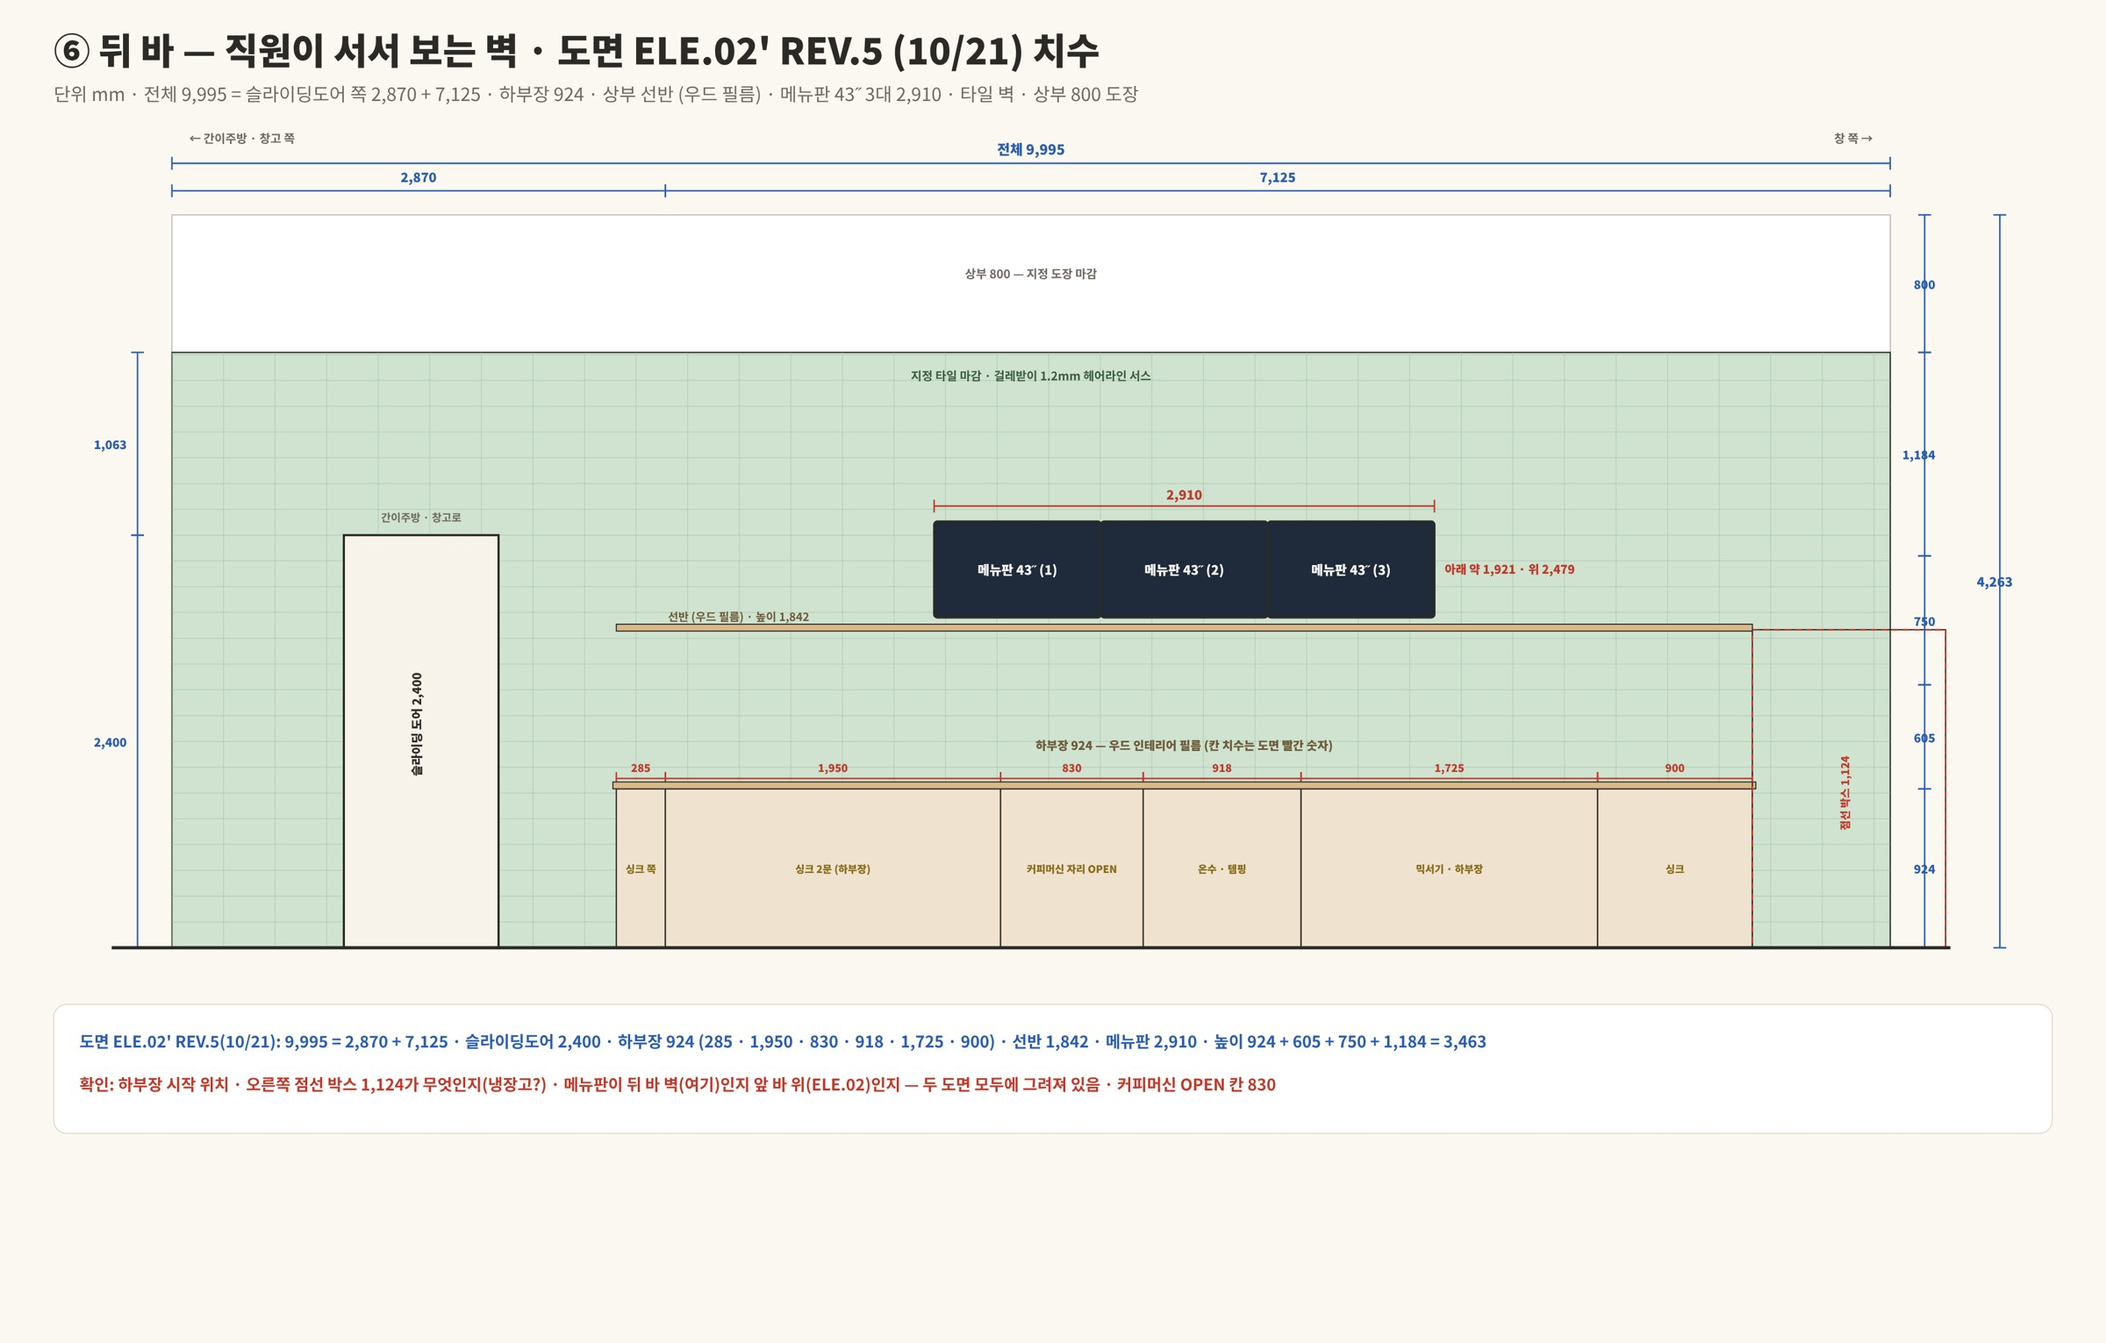
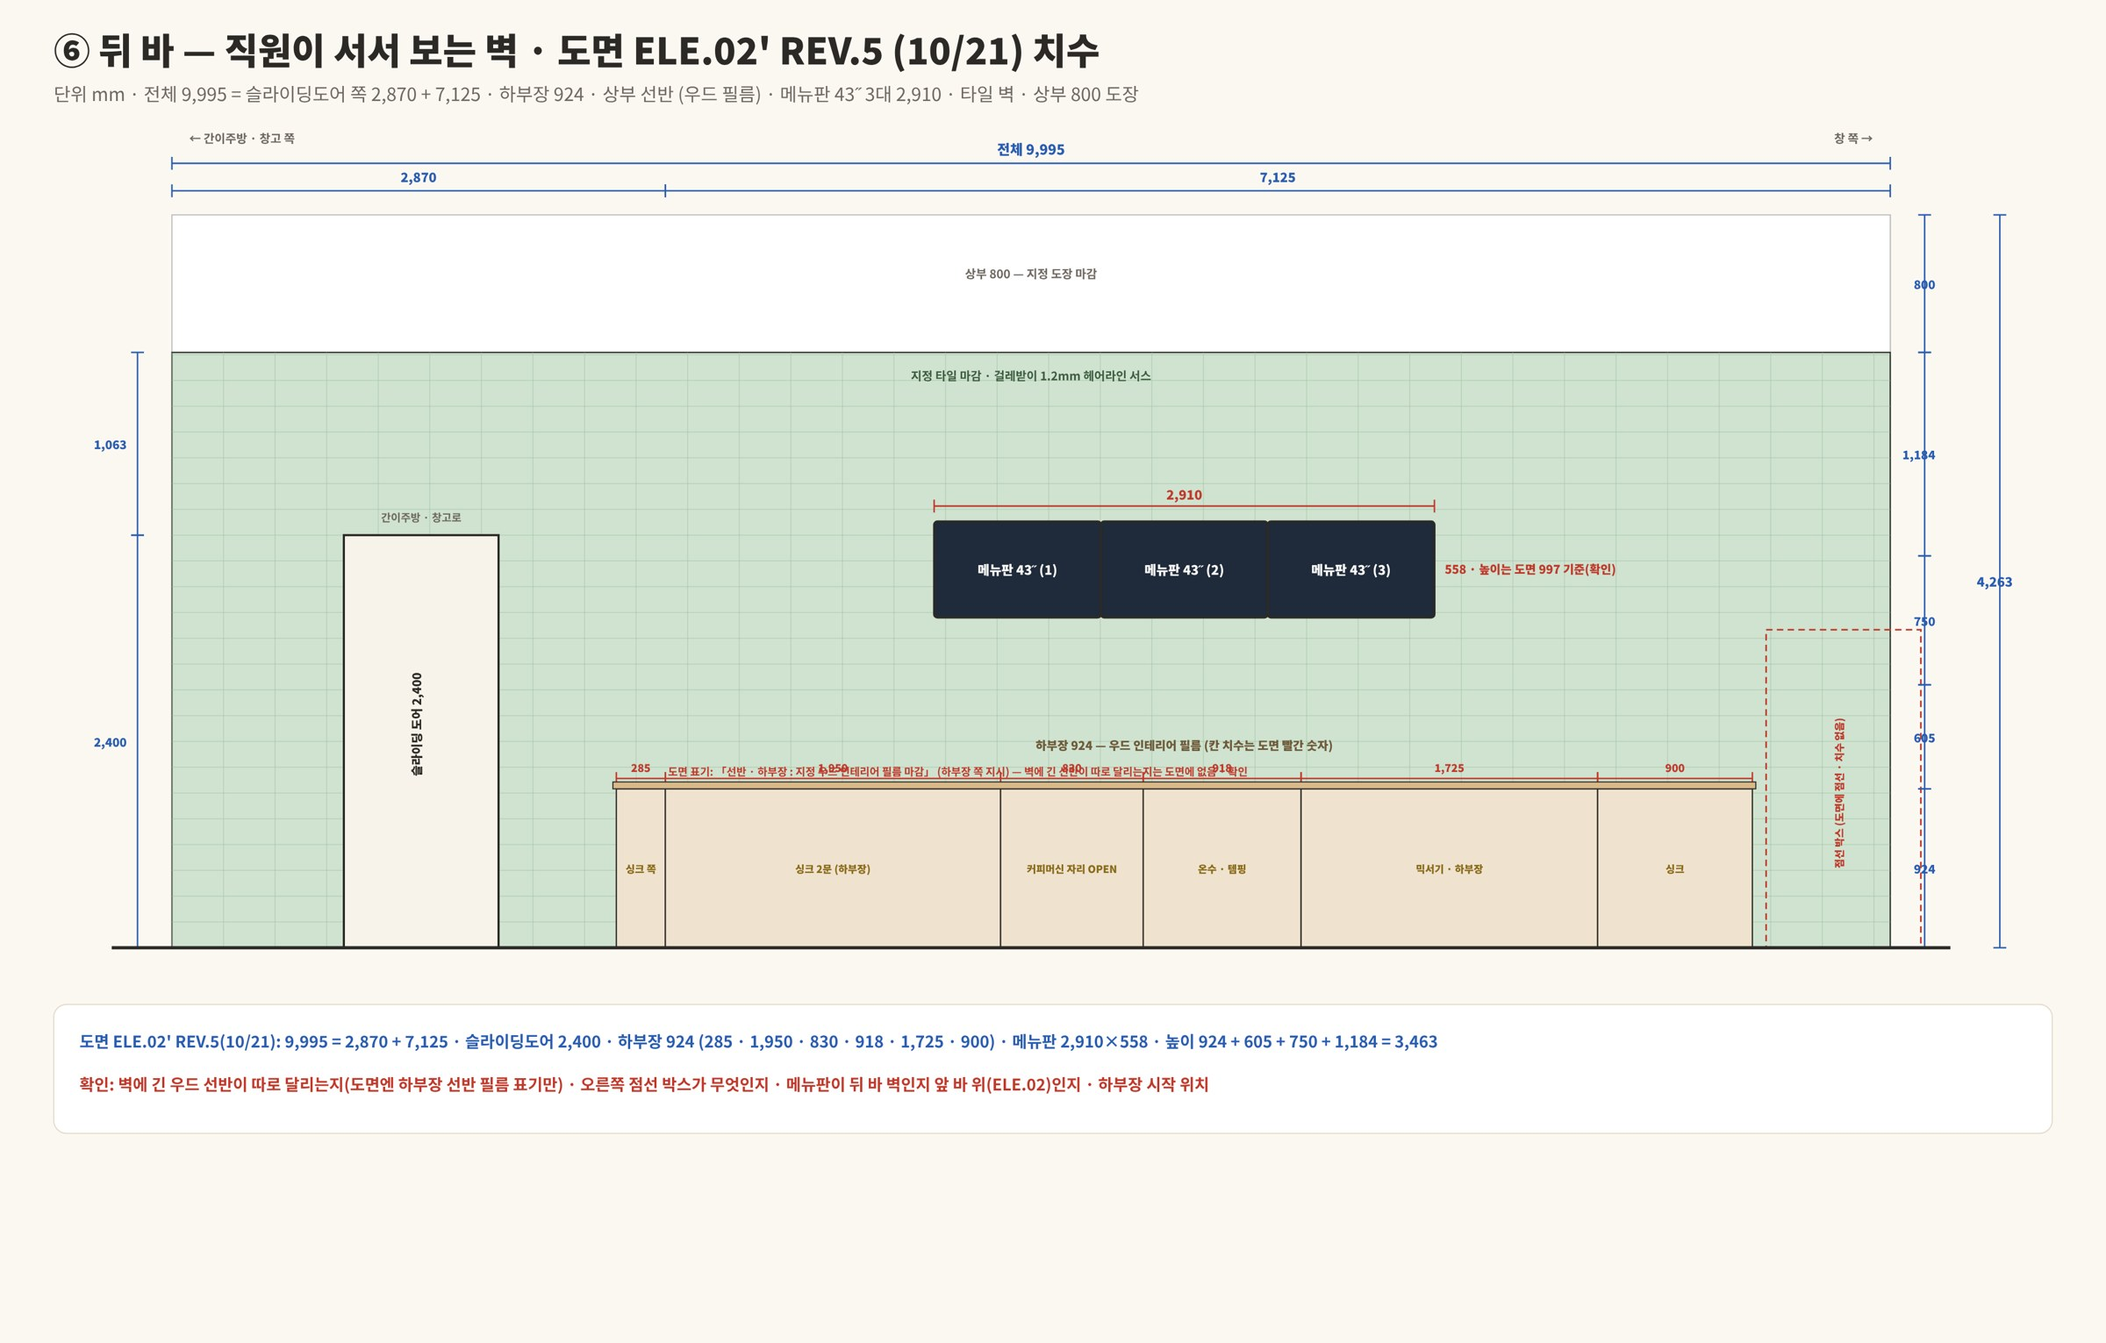
뒤 바 그림 — 도면에 없는 긴 선반 제거, 확인 항목으로
Claude-Session: https://claude.ai/code/session_01KGSeNsWMpvg4KUGj47PaMD

diff --git a/gsmch-1f-cafe-bars.html b/gsmch-1f-cafe-bars.html
@@ -21,6 +21,6 @@ h1{font-family:'Gowun Batang',serif;font-size:28px;margin:18px 0 4px}.lead{color
 <h1>로뎀카페 공간 그림 (안) — 9장</h1>
 <p class="lead">11/3 최종 도면 치수와 11/2 현장 미팅 내용으로 그렸습니다. 파란 글씨는 도면에 적힌 값, 빨간 글씨는 확인할 것입니다. 건축위 · 인테리어 업체와 맞춰 본 뒤 확정합니다.</p>
 <nav class="nav"><a href="#v1">1. 홀 전체</a><a href="#v2">2. 앞 바 — 손님이 보는 모습 (도면 ELE.02)</a><a href="#v3">3. 카페 안에서 본 정면 · 주문현황판 (도면 ELE.01)</a><a href="#v4">4. 서비스바</a><a href="#v5">5. 앞 바 · 뒤 바 · 서비스바 평면 (11/3 실시설계)</a><a href="#v6">6. 뒤 바 — 직원이 보는 벽 (도면 ELE.02')</a><a href="#v7">7. 앞 바 반대편 끝 벽 (도면 ELE.04)</a><a href="#v8">8. 간이주방</a><a href="#v9">9. 창고</a><a href="#v10">10. 창 쪽 벽 (도면 ELE.03)</a></nav>
-<section class="page" id="v1"><div class="bar"><b>1. 홀 전체</b><span>위에서 본 모습 · 뒤 바 775 · 통로 1,150 · 앞 바 875 · 서비스바 4,200×700 (앞 바에서 1,600) · 간이주방 · 창고</span><a class="tbtn" href="img/gsmch-1f-cafe-view-1.jpg" download="gsmch_카페_1_홀 전체_1104.jpg">JPG</a></div><img src="img/gsmch-1f-cafe-view-1.jpg" alt="홀 전체" loading="lazy"><div class="cap"><b>확인할 것</b> 메뉴판 3대는 뒤 바 위, 현황판은 정면 가운데 위 · 반납함 · 키오스크 자리 확인</div></section><section class="page" id="v2"><div class="bar"><b>2. 앞 바 — 손님이 보는 모습 (도면 ELE.02)</b><span>9,645 = 루버 벽 2,450 + 7,195 · 앞 바 높이 1,050 · 사인 띠 450 · 메뉴판 43˝ 3대 970×558 (1,842~2,400) · 키오스크 매립 450</span><a class="tbtn" href="img/gsmch-1f-cafe-view-2.jpg" download="gsmch_카페_2_앞 바_1104.jpg">JPG</a></div><img src="img/gsmch-1f-cafe-view-2.jpg" alt="앞 바 — 손님이 보는 모습 (도면 ELE.02)" loading="lazy"><div class="cap"><b>확인할 것</b> 앞 바 시작 위치 · 메뉴판이 앞 바 위인지 뒤 바 위인지(두 도면 모두 표기) · 사인 글자 · 상판 우드톤</div></section><section class="page" id="v3"><div class="bar"><b>3. 카페 안에서 본 정면 · 주문현황판 (도면 ELE.01)</b><span>13,616 × 4,263 · 유리 2,249 + 200 + 루버 1,014 + 상부 800 · 자동문 3,369 · 현황판 43˝ 안쪽 가운데 위</span><a class="tbtn" href="img/gsmch-1f-cafe-view-3.jpg" download="gsmch_카페_3_카페 안에서 본 정면 · 주문현황판_1104.jpg">JPG</a></div><img src="img/gsmch-1f-cafe-view-3.jpg" alt="카페 안에서 본 정면 · 주문현황판 (도면 ELE.01)" loading="lazy"><div class="cap"><b>확인할 것</b> "가운데"가 유리 7,429 가운데인지 자동문 가운데인지 정면 전체 가운데인지 · 높이 · 콘센트 · 루버 보강</div></section><section class="page" id="v4"><div class="bar"><b>4. 서비스바</b><span>4,200 × 700 · 세척 2구 → 음료 버림 → 투입구 4개 → 아이스크림 · 앞 바에서 1,600 떨어진 섬</span><a class="tbtn" href="img/gsmch-1f-cafe-view-4.jpg" download="gsmch_카페_4_서비스바_1104.jpg">JPG</a></div><img src="img/gsmch-1f-cafe-view-4.jpg" alt="서비스바" loading="lazy"><div class="cap"><b>확인할 것</b> 폭 700/600 · 높이 · 다회용컵 투입구 / 반납함 따로 · 선반 깊이</div></section><section class="page" id="v5"><div class="bar"><b>5. 앞 바 · 뒤 바 · 서비스바 평면 (11/3 실시설계)</b><span>뒤 바 775 (싱크 ↔ 싱크 4,638) · 통로 1,150 · 앞 바 875 × 6,295 · 서비스바 700 (1,600 떨어짐) · 급배수 3곳</span><a class="tbtn" href="img/gsmch-1f-cafe-view-5.jpg" download="gsmch_카페_5_앞 바 · 뒤 바 · 서비스바 평면_1104.jpg">JPG</a></div><img src="img/gsmch-1f-cafe-view-5.jpg" alt="앞 바 · 뒤 바 · 서비스바 평면 (11/3 실시설계)" loading="lazy"><div class="cap"><b>확인할 것</b> 커피머신 · 온수기 어느 바인지(앞 바 점선) · 서비스바 폭 · 반납함 매립 여부</div></section><section class="page" id="v6"><div class="bar"><b>6. 뒤 바 — 직원이 보는 벽 (도면 ELE.02')</b><span>9,995 = 2,870 + 7,125 · 하부장 924 (285 · 1,950 · 830 · 918 · 1,725 · 900) · 선반 1,842 · 메뉴판 2,910 · 슬라이딩도어 2,400</span><a class="tbtn" href="img/gsmch-1f-cafe-view-6.jpg" download="gsmch_카페_6_뒤 바_1104.jpg">JPG</a></div><img src="img/gsmch-1f-cafe-view-6.jpg" alt="뒤 바 — 직원이 보는 벽 (도면 ELE.02')" loading="lazy"><div class="cap"><b>확인할 것</b> 오른쪽 점선 박스 1,124가 무엇인지 · 커피머신 OPEN 칸 830 · 메뉴판 위치</div></section><section class="page" id="v7"><div class="bar"><b>7. 앞 바 반대편 끝 벽 (도면 ELE.04)</b><span>9,313 · 붙박이 쇼파 450 + 등받이 700 · 루버 띠 600 · 갤러리 도어 805 · 1,287 (스탠딩 냉난방)</span><a class="tbtn" href="img/gsmch-1f-cafe-view-7.jpg" download="gsmch_카페_7_앞 바 반대편 끝 벽_1104.jpg">JPG</a></div><img src="img/gsmch-1f-cafe-view-7.jpg" alt="앞 바 반대편 끝 벽 (도면 ELE.04)" loading="lazy"><div class="cap"><b>확인할 것</b> 쇼파 길이(도어 자리 제외) · 스탠딩 냉난방 자리</div></section><section class="page" id="v8"><div class="bar"><b>8. 간이주방</b><span>2,870 × 2,300 · 4도어 냉동(장)고 1,260×800×1,900 (세로로) · 빈 공간 1,120 · 분전함 · 창고와 문 없이 뚫림</span><a class="tbtn" href="img/gsmch-1f-cafe-view-8.jpg" download="gsmch_카페_8_간이주방_1104.jpg">JPG</a></div><img src="img/gsmch-1f-cafe-view-8.jpg" alt="간이주방" loading="lazy"><div class="cap"><b>확인할 것</b> 빈 공간 쓰임(선반?) · 바 쪽 문 자물쇠</div></section><section class="page" id="v9"><div class="bar"><b>9. 창고</b><span>약 1,670 × 1,650 (추정) · 앵글장 확정 · 바깥 문 875 밖으로 열림 · 오른쪽은 간이주방으로 뚫림 (아무것도 안 둠)</span><a class="tbtn" href="img/gsmch-1f-cafe-view-9.jpg" download="gsmch_카페_9_창고_1104.jpg">JPG</a></div><img src="img/gsmch-1f-cafe-view-9.jpg" alt="창고" loading="lazy"><div class="cap"><b>확인할 것</b> 창고 치수(추정) · 선반 제작은 어디에 · 바깥 문 자물쇠</div></section><section class="page" id="v10"><div class="bar"><b>10. 창 쪽 벽 (도면 ELE.03)</b><span>16,416 · 신규 창호 1,670 · 6,088 (십자 프레임) · 1,695 · 창 높이 450 + 2,400 + 80 + 963 · 블라인드 없음</span><a class="tbtn" href="img/gsmch-1f-cafe-view-10.jpg" download="gsmch_카페_10_창 쪽 벽_1104.jpg">JPG</a></div><img src="img/gsmch-1f-cafe-view-10.jpg" alt="창 쪽 벽 (도면 ELE.03)" loading="lazy"><div class="cap"><b>확인할 것</b> 창 쪽 테이블 배치</div></section>
+<section class="page" id="v1"><div class="bar"><b>1. 홀 전체</b><span>위에서 본 모습 · 뒤 바 775 · 통로 1,150 · 앞 바 875 · 서비스바 4,200×700 (앞 바에서 1,600) · 간이주방 · 창고</span><a class="tbtn" href="img/gsmch-1f-cafe-view-1.jpg" download="gsmch_카페_1_홀 전체_1104.jpg">JPG</a></div><img src="img/gsmch-1f-cafe-view-1.jpg" alt="홀 전체" loading="lazy"><div class="cap"><b>확인할 것</b> 메뉴판 3대는 뒤 바 위, 현황판은 정면 가운데 위 · 반납함 · 키오스크 자리 확인</div></section><section class="page" id="v2"><div class="bar"><b>2. 앞 바 — 손님이 보는 모습 (도면 ELE.02)</b><span>9,645 = 루버 벽 2,450 + 7,195 · 앞 바 높이 1,050 · 사인 띠 450 · 메뉴판 43˝ 3대 970×558 (1,842~2,400) · 키오스크 매립 450</span><a class="tbtn" href="img/gsmch-1f-cafe-view-2.jpg" download="gsmch_카페_2_앞 바_1104.jpg">JPG</a></div><img src="img/gsmch-1f-cafe-view-2.jpg" alt="앞 바 — 손님이 보는 모습 (도면 ELE.02)" loading="lazy"><div class="cap"><b>확인할 것</b> 앞 바 시작 위치 · 메뉴판이 앞 바 위인지 뒤 바 위인지(두 도면 모두 표기) · 사인 글자 · 상판 우드톤</div></section><section class="page" id="v3"><div class="bar"><b>3. 카페 안에서 본 정면 · 주문현황판 (도면 ELE.01)</b><span>13,616 × 4,263 · 유리 2,249 + 200 + 루버 1,014 + 상부 800 · 자동문 3,369 · 현황판 43˝ 안쪽 가운데 위</span><a class="tbtn" href="img/gsmch-1f-cafe-view-3.jpg" download="gsmch_카페_3_카페 안에서 본 정면 · 주문현황판_1104.jpg">JPG</a></div><img src="img/gsmch-1f-cafe-view-3.jpg" alt="카페 안에서 본 정면 · 주문현황판 (도면 ELE.01)" loading="lazy"><div class="cap"><b>확인할 것</b> "가운데"가 유리 7,429 가운데인지 자동문 가운데인지 정면 전체 가운데인지 · 높이 · 콘센트 · 루버 보강</div></section><section class="page" id="v4"><div class="bar"><b>4. 서비스바</b><span>4,200 × 700 · 세척 2구 → 음료 버림 → 투입구 4개 → 아이스크림 · 앞 바에서 1,600 떨어진 섬</span><a class="tbtn" href="img/gsmch-1f-cafe-view-4.jpg" download="gsmch_카페_4_서비스바_1104.jpg">JPG</a></div><img src="img/gsmch-1f-cafe-view-4.jpg" alt="서비스바" loading="lazy"><div class="cap"><b>확인할 것</b> 폭 700/600 · 높이 · 다회용컵 투입구 / 반납함 따로 · 선반 깊이</div></section><section class="page" id="v5"><div class="bar"><b>5. 앞 바 · 뒤 바 · 서비스바 평면 (11/3 실시설계)</b><span>뒤 바 775 (싱크 ↔ 싱크 4,638) · 통로 1,150 · 앞 바 875 × 6,295 · 서비스바 700 (1,600 떨어짐) · 급배수 3곳</span><a class="tbtn" href="img/gsmch-1f-cafe-view-5.jpg" download="gsmch_카페_5_앞 바 · 뒤 바 · 서비스바 평면_1104.jpg">JPG</a></div><img src="img/gsmch-1f-cafe-view-5.jpg" alt="앞 바 · 뒤 바 · 서비스바 평면 (11/3 실시설계)" loading="lazy"><div class="cap"><b>확인할 것</b> 커피머신 · 온수기 어느 바인지(앞 바 점선) · 서비스바 폭 · 반납함 매립 여부</div></section><section class="page" id="v6"><div class="bar"><b>6. 뒤 바 — 직원이 보는 벽 (도면 ELE.02')</b><span>9,995 = 2,870 + 7,125 · 하부장 924 (285 · 1,950 · 830 · 918 · 1,725 · 900) · 메뉴판 2,910×558 · 슬라이딩도어 2,400</span><a class="tbtn" href="img/gsmch-1f-cafe-view-6.jpg" download="gsmch_카페_6_뒤 바_1104.jpg">JPG</a></div><img src="img/gsmch-1f-cafe-view-6.jpg" alt="뒤 바 — 직원이 보는 벽 (도면 ELE.02')" loading="lazy"><div class="cap"><b>확인할 것</b> 벽에 긴 우드 선반이 달리는지(도면엔 하부장 선반 필름 표기만) · 오른쪽 점선 박스 · 메뉴판 위치</div></section><section class="page" id="v7"><div class="bar"><b>7. 앞 바 반대편 끝 벽 (도면 ELE.04)</b><span>9,313 · 붙박이 쇼파 450 + 등받이 700 · 루버 띠 600 · 갤러리 도어 805 · 1,287 (스탠딩 냉난방)</span><a class="tbtn" href="img/gsmch-1f-cafe-view-7.jpg" download="gsmch_카페_7_앞 바 반대편 끝 벽_1104.jpg">JPG</a></div><img src="img/gsmch-1f-cafe-view-7.jpg" alt="앞 바 반대편 끝 벽 (도면 ELE.04)" loading="lazy"><div class="cap"><b>확인할 것</b> 쇼파 길이(도어 자리 제외) · 스탠딩 냉난방 자리</div></section><section class="page" id="v8"><div class="bar"><b>8. 간이주방</b><span>2,870 × 2,300 · 4도어 냉동(장)고 1,260×800×1,900 (세로로) · 빈 공간 1,120 · 분전함 · 창고와 문 없이 뚫림</span><a class="tbtn" href="img/gsmch-1f-cafe-view-8.jpg" download="gsmch_카페_8_간이주방_1104.jpg">JPG</a></div><img src="img/gsmch-1f-cafe-view-8.jpg" alt="간이주방" loading="lazy"><div class="cap"><b>확인할 것</b> 빈 공간 쓰임(선반?) · 바 쪽 문 자물쇠</div></section><section class="page" id="v9"><div class="bar"><b>9. 창고</b><span>약 1,670 × 1,650 (추정) · 앵글장 확정 · 바깥 문 875 밖으로 열림 · 오른쪽은 간이주방으로 뚫림 (아무것도 안 둠)</span><a class="tbtn" href="img/gsmch-1f-cafe-view-9.jpg" download="gsmch_카페_9_창고_1104.jpg">JPG</a></div><img src="img/gsmch-1f-cafe-view-9.jpg" alt="창고" loading="lazy"><div class="cap"><b>확인할 것</b> 창고 치수(추정) · 선반 제작은 어디에 · 바깥 문 자물쇠</div></section><section class="page" id="v10"><div class="bar"><b>10. 창 쪽 벽 (도면 ELE.03)</b><span>16,416 · 신규 창호 1,670 · 6,088 (십자 프레임) · 1,695 · 창 높이 450 + 2,400 + 80 + 963 · 블라인드 없음</span><a class="tbtn" href="img/gsmch-1f-cafe-view-10.jpg" download="gsmch_카페_10_창 쪽 벽_1104.jpg">JPG</a></div><img src="img/gsmch-1f-cafe-view-10.jpg" alt="창 쪽 벽 (도면 ELE.03)" loading="lazy"><div class="cap"><b>확인할 것</b> 창 쪽 테이블 배치</div></section>
 <p class="foot">선한목자교회 총여선교회 사업단 · 1층 성전보수</p>
 </div></body></html>

diff --git a/tools-cafe-draw/el2b.py b/tools-cafe-draw/el2b.py
@@ -21,14 +21,14 @@ for w,nm in segs:
     B(x,w,0,924,'#efe3cf',INK,1.2);T(o,X(x+w/2),Y(460)+4,nm,9.5,800,'#8a6a1a');DIM(o,X(x),Y(924+60),X(x+w),Y(924+60),f'{w:,}',RED,-6,10);x+=w
 B(x0-20,x-x0+40,924,40,WOOD,INK,1);T(o,X((x0+x)/2),Y(1150),'하부장 924 — 우드 인테리어 필름 (칸 치수는 도면 빨간 숫자)',11,800,'#6e5a3a')
 # 오른쪽 끝 점선 박스 1,124 (높이 약 1,850)
-B(x,1124,0,1850,'none',INK,1.2);o.append(f'<rect x="{X(x)}" y="{Y(1850)}" width="{1124*S}" height="{1850*S}" fill="none" stroke="{RED}" stroke-width="1.5" stroke-dasharray="6 4"/>');T(o,X(x+562),Y(900),'점선 박스 1,124',10,800,RED,'middle',-90)
+o.append(f'<rect x="{X(x+80)}" y="{Y(1850)}" width="{900*S}" height="{1850*S}" fill="none" stroke="{RED}" stroke-width="1.5" stroke-dasharray="6 4"/>');T(o,X(x+530),Y(900),'점선 박스 (도면에 점선 · 치수 없음)',9.5,800,RED,'middle',-90)
 # 상부 선반 1,842
-B(x0,x-x0,1842,40,WOOD,INK,1);T(o,X(x0+300),Y(1900),'선반 (우드 필름) · 높이 1,842',10.5,700,'#6e5a3a','start')
+T(o,X(x0+300),Y(1000),'도면 표기: 「선반 · 하부장 : 지정 우드 인테리어 필름 마감」 (하부장 쪽 지시) — 벽에 긴 선반이 따로 달리는지는 도면에 없음 · 확인',10,700,RED,'start')
 # 메뉴판 2,910 (970×3) · 아래 924+997=1,921
 mw=970;mh=558;m0=x0+(x-x0-2910)/2;mb=1921
 for k in range(3):
     B(m0+k*mw,mw,mb,mh,'#1f2a3a',INK,2,3);T(o,X(m0+k*mw+mw/2),Y(mb+mh/2)+5,f'메뉴판 43˝ ({k+1})',12,800,'#fff')
-DIM(o,X(m0),Y(mb+mh+90),X(m0+2910),Y(mb+mh+90),'2,910',RED,-6,12);T(o,X(m0+2910+60),Y(mb+mh/2)+4,'아래 약 1,921 · 위 2,479',11,800,RED,'start')
+DIM(o,X(m0),Y(mb+mh+90),X(m0+2910),Y(mb+mh+90),'2,910',RED,-6,12);T(o,X(m0+2910+60),Y(mb+mh/2)+4,'558 · 높이는 도면 997 기준(확인)',11,800,RED,'start')
 # 치수
 DIM(o,X(0),Y(HT+140),X(2870),Y(HT+140),'2,870',BL,-8,12);DIM(o,X(2870),Y(HT+140),X(TOT),Y(HT+140),'7,125',BL,-8,12);DIM(o,X(0),Y(HT+300),X(TOT),Y(HT+300),'전체 9,995',BL,-8,13)
 xr=X(TOT+200)
@@ -37,7 +37,7 @@ DIM(o,xr+70,Y(HT),xr+70,Y(0),'4,263',BL,-12,12)
 xl=X(-200);DIM(o,xl,Y(2400),xl,Y(0),'2,400',BL,10,11);DIM(o,xl,Y(3463),xl,Y(2400),'1,063',BL,10,11)
 o.append(f'<line x1="{X(-350)}" y1="{Y(0)}" x2="{X(TOT+350)}" y2="{Y(0)}" stroke="{INK}" stroke-width="3"/>')
 T(o,X(100),Y(HT+420),'← 간이주방 · 창고 쪽',11,700,MUT,'start');T(o,X(TOT-100),Y(HT+420),'창 쪽 →',11,700,MUT,'end')
-NOTES(o,Y(-330),[(BL,"도면 ELE.02' REV.5(10/21): 9,995 = 2,870 + 7,125 · 슬라이딩도어 2,400 · 하부장 924 (285 · 1,950 · 830 · 918 · 1,725 · 900) · 선반 1,842 · 메뉴판 2,910 · 높이 924 + 605 + 750 + 1,184 = 3,463"),
- (RED,'확인: 하부장 시작 위치 · 오른쪽 점선 박스 1,124가 무엇인지(냉장고?) · 메뉴판이 뒤 바 벽(여기)인지 앞 바 위(ELE.02)인지 — 두 도면 모두에 그려져 있음 · 커피머신 OPEN 칸 830')],W)
+NOTES(o,Y(-330),[(BL,"도면 ELE.02' REV.5(10/21): 9,995 = 2,870 + 7,125 · 슬라이딩도어 2,400 · 하부장 924 (285 · 1,950 · 830 · 918 · 1,725 · 900) · 메뉴판 2,910×558 · 높이 924 + 605 + 750 + 1,184 = 3,463"),
+ (RED,'확인: 벽에 긴 우드 선반이 따로 달리는지(도면엔 하부장 선반 필름 표기만) · 오른쪽 점선 박스가 무엇인지 · 메뉴판이 뒤 바 벽인지 앞 바 위(ELE.02)인지 · 하부장 시작 위치')],W)
 apply_overlays(o,'el2b',X,Y)
 save(o,W,H,'el2b.svg')
